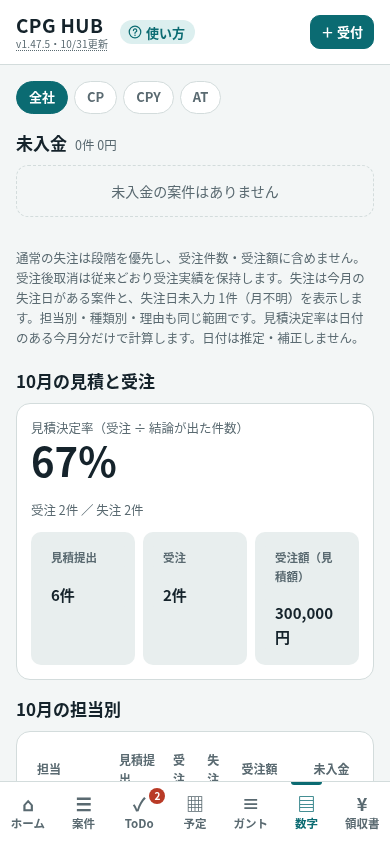
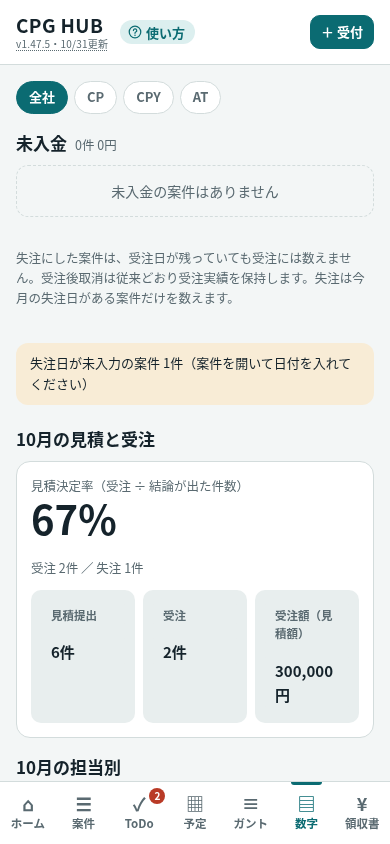
fix: separate undated losses and add confirmed case corrections with history

diff --git a/index.html b/index.html
@@ -970,6 +970,46 @@ function emergencyTimeFields(value){
     (value&&!valid?'<p class="note" role="status">保存済みの時刻を選択欄に表示できません。記録は変更していません。予定時刻を確認して時・分を選んでください。</p>':'');
 }
 function caseDateWarning(c){return c.orderDate&&(c.lossDate||c.stage==='lost')?'<div class="banner case-date-warning" role="status"><b>受注日・失注日の確認が必要です。</b>受注日と失注日が両方あるか、失注の段階に受注日が残っています。元の記録を確認してください。保存は止めず、日付を自動変更しません。</div>':'';}
+
+/* Explicit local corrections; history travels in the existing JSON backup, not the shared mirror. */
+const caseDateFields=c=>Object.fromEntries(['orderDate','lossDate','lossReason','stage','cancelledAt','cancelReason'].map(k=>[k,c[k]??'']));
+function caseDateEditable(c){return !!(c&&!c.ro&&['new','site','quoted','hold','won','lost'].includes(c.stage)&&DB.cases.filter(x=>x.id===c.id).length===1&&DB.cases.find(x=>x.id===c.id)===c);}
+function caseDateHistory(c){return Array.isArray(c.dateCorrections)&&c.dateCorrections.length?'<details class="panel"><summary>受注・失注の訂正履歴（この端末）</summary>'+c.dateCorrections.map(r=>'<div class="manual-history"><b>'+h(japanStamp(r.at))+'</b><p>'+h(r.kind==='cancel-to-lost'?'受注後取消から失注へ訂正':'日付・理由を訂正')+'</p><p>変更前：'+h(caseDateText(r.before||{}))+'</p><p>変更後：'+h(caseDateText(r.after||{}))+'</p></div>').join('')+'</details>':'';}
+function caseDateText(v){return '受注日 '+(v.orderDate||'なし')+' ／ 失注日 '+(v.lossDate||'なし')+' ／ 理由 '+(v.lossReason||'なし')+' ／ 段階 '+(STAGES[v.stage]||v.stage||'なし')+' ／ 取消日時 '+(v.cancelledAt?japanStamp(v.cancelledAt):'なし')+' ／ 取消理由 '+(v.cancelReason||'なし');}
+let caseDateSession=null;
+function caseDateClose(){document.getElementById('caseDateEditor')?.close();caseDateSession=null;}
+function caseDateOpen(id,convert){
+ const c=DB.cases.find(x=>x.id===id);
+ if(caseSaveGuard()||!caseDateEditable(c)||manualTodoCancelBusy())return toast('この案件は訂正できないか、ほかの処理中です');
+ if(convert&&!(c.stage==='lost'&&c.cancelledAt))return;
+ if(c.dateCorrections!==undefined&&!Array.isArray(c.dateCorrections))return toast('訂正履歴を読み取れないため変更できません');
+ let dlg=document.getElementById('caseDateEditor');
+ if(!dlg){dlg=document.createElement('dialog');dlg.id='caseDateEditor';dlg.style.cssText='width:min(94vw,680px);max-height:90dvh;overflow:auto;border:0;border-radius:18px;padding:18px';document.body.append(dlg);dlg.addEventListener('cancel',()=>{caseDateSession=null});}
+ caseDateSession={id,convert:!!convert,raw:JSON.stringify(c)};
+ dlg.innerHTML='<h2 style="font-size:20px">'+(convert?'失注（受注していなかった）に直す':'受注日・失注日・理由を直す')+'</h2><p>'+h(c.id)+' ／ '+h(c.property)+' '+h(c.room)+'</p>'+
+ (convert?'<p>誤って受注・取消にした場合だけ使います。受注日と取消情報を現在の欄から外し、変更前の値を訂正履歴に残します。正しい受注後取消には使わないでください。</p>':'<p>日付と理由だけを直します。段階・金額・取消の状態は変わりません。</p>')+
+ '<div class="form">'+(convert?'':'<label class="f">受注日（空欄で消す）<input type="date" id="cd_order" value="'+h(c.orderDate)+'"></label>')+
+ '<label class="f">失注日'+(convert?'（必須）':'')+'<input type="date" id="cd_loss" value="'+h(c.lossDate)+'"></label><label class="f">失注の理由'+(convert?'（必須）':'')+'<select id="cd_reason">'+['',...LOSS,...(c.lossReason&&!LOSS.includes(c.lossReason)?[c.lossReason]:[])].map(v=>'<option value="'+h(v)+'"'+(v===(c.lossReason||'')?' selected':'')+'>'+h(v||'選んでください')+'</option>').join('')+'</select></label></div><p class="note">確認して保存したときだけ変更します。訂正履歴はこの端末とJSONバックアップに残ります。共有シートには現在の値だけが届きます。</p><p id="cd_status" role="status"></p><div class="row"><button type="button" class="btn pri" data-act="cddatesave">内容を確認して保存</button><button type="button" class="btn" data-act="cddateclose">やめる</button></div>';
+ dlg.showModal();
+}
+function caseDateSave(){
+ const session=caseDateSession,c=session&&DB.cases.find(x=>x.id===session.id),status=document.getElementById('cd_status');
+ if(!status)return;
+ if(caseSaveGuard()||!caseDateEditable(c)||manualTodoCancelBusy()){status.textContent='この案件は訂正できないか、ほかの処理中です';return;}
+ if(JSON.stringify(c)!==session.raw){status.textContent='記録が変わりました。閉じて最新の内容を開き直してください';return;}
+ if(session.convert&&!(c.stage==='lost'&&c.cancelledAt))return;
+ const orderDate=session.convert?'':val('cd_order'),lossDate=val('cd_loss'),lossReason=val('cd_reason');
+ const valid=d=>!d||(/^\d{4}-\d{2}-\d{2}$/.test(d)&&!isNaN(Date.parse(d+'T00:00:00Z'))&&new Date(d+'T00:00:00Z').toISOString().slice(0,10)===d);
+ if(!valid(orderDate)||!valid(lossDate)||(session.convert&&(!lossDate||!lossReason))){status.textContent='正しい日付を入力してください。取消から失注への訂正には失注日と理由が必要です';return;}
+ const before=caseDateFields(c),after={...before,orderDate,lossDate,lossReason,...(session.convert?{stage:'lost',cancelledAt:'',cancelReason:''}:{})};
+ if(JSON.stringify(before)===JSON.stringify(after)){status.textContent='変更はありません';return;}
+ if(!confirm(c.id+' ／ '+c.property+' '+c.room+'\n'+(session.convert?'受注していなかった失注に訂正しますか？':'日付・理由を訂正しますか？')+'\n変更前：'+caseDateText(before)+'\n変更後：'+caseDateText(after)+'\n変更前の値は履歴に残ります。'))return;
+ if(caseDateSession!==session||!caseDateEditable(c)||manualTodoCancelBusy()||JSON.stringify(c)!==session.raw){status.textContent='状態が変わったため保存しません。開き直してください';return;}
+ const history=[...(c.dateCorrections||[]),{id:crypto.randomUUID(),at:new Date().toISOString(),kind:session.convert?'cancel-to-lost':'dates',before,after}];
+ if(!saveCaseChange(c,{...after,dateCorrections:history})){status.textContent=CASE_SAVE_NOTICE;return;}
+ caseDateClose();render();toast('訂正と変更前の履歴を保存し、読み戻して確認しました');
+}
+
 function vDetail(){
   const c=findCase(ui.caseId);
   if(!c)return '<div class="empty">案件が見つかりません</div>'+roNote();
@@ -1017,6 +1057,7 @@ function vDetail(){
   (caseIdentityEditable(c)?'<div class="row"><button class="btn" type="button" data-caseidentity="'+h(c.id)+'">物件名・号室を直す</button></div>':'')+
   stepBar(c)+'</section>'+
   caseDateWarning(c)+act+
+  (caseDateEditable(c)?'<div class="row"><button class="btn" type="button" data-cddate="'+h(c.id)+'">受注日・失注日・理由を直す</button>'+(c.stage==='lost'&&c.cancelledAt?'<button class="btn" type="button" data-cdconvert="'+h(c.id)+'">失注（受注していなかった）に直す</button>':'')+'</div>':'')+caseDateHistory(c)+
   '<div class="panel"><h3>受付内容</h3><dl class="kv">'+
     '<dt>住所</dt><dd>'+(c.addr?h(c.addr)+' <a class="btn sm" style="display:inline-flex;align-items:center;text-decoration:none;margin-left:4px" target="_blank" rel="noopener noreferrer" href="https://www.google.com/maps/search/?api=1&amp;query='+encodeURIComponent(c.addr)+'">地図を開く</a>':'—')+'</dd>'+
     '<dt>会社</dt><dd>'+(ui.coEdit?coSeg("data-cset",c.company)+'<div class="row" style="margin-top:6px"><button class="btn" type="button" data-act="coeditno">やめる</button></div>':coChip(c.company)+' <button class="btn sm" type="button" data-act="coedit">'+(c.company?'直す':'選ぶ')+'</button>')+'</dd>'+
@@ -1605,9 +1646,9 @@ function vStats(){
   const all=statsCases(), sco=statsCo(), gmCo=statsGmCo();
   const sent=all.filter(c=>inM(c.estSentDate));
   const won=all.filter(c=>(c.stage!=="lost"||c.cancelledAt)&&inM(c.orderDate));
-  const lost=all.filter(c=>c.stage==="lost"&&!c.cancelledAt&&(!c.lossDate||inM(c.lossDate)));
-  const undatedLost=lost.filter(c=>!c.lossDate), datedLost=lost.filter(c=>inM(c.lossDate));
-  const dec=won.length+datedLost.length, rate=dec?Math.round(won.length/dec*100):null;
+  const lost=all.filter(c=>c.stage==="lost"&&!c.cancelledAt&&inM(c.lossDate));
+  const undatedLost=all.filter(c=>c.stage==="lost"&&!c.cancelledAt&&!c.lossDate);
+  const dec=won.length+lost.length, rate=dec?Math.round(won.length/dec*100):null;
   const wonAmt=won.reduce((s,c)=>s+(Number(estOf(c))||0),0);
   const reasons=LOSS.map(r=>[r,lost.filter(c=>c.lossReason===r).length]).concat(lost.some(c=>!LOSS.includes(c.lossReason))?[["理由が届いていない（社員の記録）",lost.filter(c=>!LOSS.includes(c.lossReason)).length]]:[]);
   const maxR=Math.max(1,...reasons.map(r=>r[1]));
@@ -1630,7 +1671,7 @@ function vStats(){
       :'<div class="empty">未入金の案件はありません</div>')+'</section>';
   return (hasExamples()?'<div class="banner"><b>集計について：</b>（架空）の例と、入力した案件をあわせた数字です。</div>':'')+
   '<section class="sec">'+statsNote()+coSegStats+'</section>'+unpaidSec+
-  '<section class="sec"><p class="note stats-loss-note">通常の失注は段階を優先し、受注件数・受注額に含めません。受注後取消は従来どおり受注実績を保持します。失注は今月の失注日がある案件と、失注日未入力 '+undatedLost.length+'件（月不明）を表示します。担当別・種類別・理由も同じ範囲です。見積決定率は日付のある今月分だけで計算します。日付は推定・補正しません。</p><div class="sec-h"><h2>'+(now.getMonth()+1)+'月の見積と受注</h2></div>'+
+  '<section class="sec"><p class="note stats-loss-note">失注にした案件は、受注日が残っていても受注には数えません。受注後取消は従来どおり受注実績を保持します。失注は今月の失注日がある案件だけを数えます。</p><p class="banner stats-undated">失注日が未入力の案件 '+undatedLost.length+'件（案件を開いて日付を入れてください）</p><div class="sec-h"><h2>'+(now.getMonth()+1)+'月の見積と受注</h2></div>'+
   '<div class="panel"><div class="row" style="align-items:flex-end;gap:18px"><div><div class="note">見積決定率（受注 ÷ 結論が出た件数）</div><div class="big">'+(rate==null?"—":rate+"%")+'</div></div>'+
   '<div class="note num">受注 '+won.length+'件 ／ 失注 '+lost.length+'件</div></div>'+
   '<div class="sum"><div><div class="k">見積提出</div><div class="v">'+sent.length+'件</div></div><div><div class="k">受注</div><div class="v">'+won.length+'件</div></div><div><div class="k">受注額（見積額）</div><div class="v">'+yen(wonAmt)+'</div></div></div></div></section>'+
@@ -2687,6 +2728,10 @@ document.addEventListener("click",e=>{
   if(ui.rSaveUncertain&&el.closest("#rForm")&&!el.matches('button[type="submit"]'))return;
   if(el.dataset.receiptSuggestion){const id=el.dataset.receiptSuggestion==="payee"?"r_payee":"r_item",input=document.getElementById(id);if(input){input.value=el.dataset.value;receiptRefreshSuggestions();input.focus({preventScroll:true});}return;}
   const c=ui.caseId?editCase(ui.caseId):null;
+  if(el.dataset.cddate){caseDateOpen(el.dataset.cddate,false);return}
+  if(el.dataset.cdconvert){caseDateOpen(el.dataset.cdconvert,true);return}
+  if(el.dataset.act==='cddatesave'){caseDateSave();return}
+  if(el.dataset.act==='cddateclose'){caseDateClose();return}
   if(el.dataset.caseidentity){caseIdentityOpen(el.dataset.caseidentity);return}
   if(el.dataset.caseprevious!=null){try{caseIdentityFill(caseIdentityApi().previousFields(caseIdentityHistoryRows[Number(el.dataset.caseprevious)],caseIdentitySession.id));document.getElementById("caseIdentityStatus").textContent="以前の物件名・号室を編集欄に戻しました。保存すると新しい履歴を残します。進捗は変わりません。";}catch(error){toast(error.message,5000)}return}
   if(el.dataset.act==="caseidentityclose"){caseIdentityClose();return}

diff --git a/manual.html b/manual.html
@@ -342,12 +342,12 @@ th{color:var(--muted);font-size:13px}
   <p>会社の動き、社員の追加、タスクリクエストを出す、会社・役割（全社・GM）、数字の会社全体の集計などは、<a href="./manual-admin.html">管理者向けマニュアル</a>にまとめています。</p>
 </section>
 
-<section class="panel"><h2>v1.47.5（2026年10月31日）数字の集計</h2><p>取消日時のない通常失注は段階を優先し、受注日が残っていても受注件数・受注額から除外します。失注の集計（担当別・種類別・理由）は今月の失注日がある案件と失注日未入力の案件を含み、未入力分は月不明の件数を明示します。過去月・未来月の失注日は今月に含めず、見積決定率は日付のある今月分だけで計算します。日付は推定・補正しません。受注後取消（取消日時あり）は通常失注と区別し、従来どおり元の受注実績を保持し、失注集計には加算しません。種類別の見積提出は担当別と同じ今月の提出日で数えます。案件画面では受注日と失注日の併記、または失注段階に受注日が残る場合に注意を表示しますが、保存は止めません。</p></section>
+<section class="panel"><h2>v1.47.5（2026年10月31日）数字の集計</h2><p>失注にした案件は、受注日が残っていても受注には数えません。ただし、実際に受注したあとの取消は、これまでどおり元の受注実績に残します。今月の失注件数・担当別・種類別・理由・決定率には、今月の失注日がある案件だけを数えます。失注日が空の案件は集計に入れず、「失注日が未入力の案件」として別に件数を出します。日付を自動で埋めることはありません。種類別の「見積提出」は、担当別と同じく今月提出した件数です。日付の食い違いには案件画面で注意を出しますが、保存は止めません。</p><h3>日付や、誤った受注・取消の記録を直す</h3><p>自分の端末で案件を開き、「受注日・失注日・理由を直す」を押します。受注日を消すときは空欄にし、失注日・理由を確認して「内容を確認して保存」を押してください。確認画面に出る案件と変更前・変更後を読み、よければ確定します。「やめる」や確認のキャンセルでは変更しません。誤って受注してから取り消した場合は「失注（受注していなかった）に直す」を使い、失注日と理由を入れます。確定すると受注日と現在の取消情報を外し、通常の失注として数えます。本当に受注した後の取消には使わないでください。どちらの操作も元の受注日・失注日・理由・取消情報を「受注・失注の訂正履歴」に残します。履歴はこの端末とJSONバックアップに残り、共有シートには現在の値だけが届きます。共有社員の記録や引渡・施工以降の案件は、この操作で直せません。保存結果を確認できないときは再保存せず、再読み込みして最新の記録を確認してください。</p></section>
 <section id="history">
   <h2>改訂履歴</h2>
   <div class="card"><table class="hist">
     <tr><th>版</th><th>できるようになったこと</th></tr>
-    <tr><td>v1.47.5<br><span class="meta">10/31</span></td><td>失注段階を優先した集計、日付の注意、種類別の見積提出列を追加。保存データは変更しません。</td></tr>
+    <tr><td>v1.47.5<br><span class="meta">10/31</span></td><td>失注段階を優先した集計、日付の注意、種類別の見積提出列を追加。自動補正はせず、本人の確認付き訂正だけを保存します。</td></tr>
     <tr><td>v1.47.4<br><span class="meta">10/31</span></td><td>タスクリクエストの当日期限（「今日」）を赤字・太字で表示。未来日・通常ToDo・保存・同期は変更しません。</td></tr>
     <tr><td>v1.47.3<br><span class="meta">10/31</span></td><td>自動ToDoの期限設定（目安）の見出し・説明を明確化。日数・計算・保存・同期は不変。旧PR #49のv1.47候補を最新mainへ通常mergeして更新しました。</td></tr>
     <tr><td>v1.47.2<br><span class="meta">10/31</span></td><td>リクエストを通常ToDoの上に小さく表示。押すと全文を開閉。JST今日＋5日までに限定し、先の期限・期限なしは指示一覧へ。保存・同期・完了報告は変更しません。</td></tr>

diff --git a/manual-admin.html b/manual-admin.html
@@ -163,7 +163,7 @@ th{color:var(--muted);font-size:13px}
   <p class="note"><b>指示箱がまだありません</b>と出たときは、社長の端末で、その人の会社・役割をもう一度保存してもらってください（指示箱はそのときに作られます）。</p>
 </section>
 
-<section class="panel"><h2>v1.47.5（2026年10月31日）数字の集計</h2><p>取消日時のない通常失注は段階を優先し、受注日が残っていても受注件数・受注額から除外します。失注の集計（担当別・種類別・理由）は今月の失注日がある案件と失注日未入力の案件を含み、未入力分は月不明の件数を明示します。過去月・未来月の失注日は今月に含めず、見積決定率は日付のある今月分だけで計算します。日付は推定・補正しません。受注後取消（取消日時あり）は通常失注と区別し、従来どおり元の受注実績を保持し、失注集計には加算しません。種類別の見積提出は担当別と同じ今月の提出日で数えます。案件画面では受注日と失注日の併記、または失注段階に受注日が残る場合に注意を表示しますが、保存は止めません。</p></section>
+<section class="panel"><h2>v1.47.5（2026年10月31日）数字の集計</h2><p>失注にした案件は、受注日が残っていても受注には数えません。ただし、実際に受注したあとの取消は、これまでどおり元の受注実績に残します。今月の失注件数・担当別・種類別・理由・決定率には、今月の失注日がある案件だけを数えます。失注日が空の案件は集計に入れず、「失注日が未入力の案件」として別に件数を出します。日付を自動で埋めることはありません。種類別の「見積提出」は、担当別と同じく今月提出した件数です。日付の食い違いには案件画面で注意を出しますが、保存は止めません。</p><h3>日付や、誤った受注・取消の記録を直す</h3><p>自分の端末で案件を開き、「受注日・失注日・理由を直す」を押します。受注日を消すときは空欄にし、失注日・理由を確認して「内容を確認して保存」を押してください。確認画面に出る案件と変更前・変更後を読み、よければ確定します。「やめる」や確認のキャンセルでは変更しません。誤って受注してから取り消した場合は「失注（受注していなかった）に直す」を使い、失注日と理由を入れます。確定すると受注日と現在の取消情報を外し、通常の失注として数えます。本当に受注した後の取消には使わないでください。どちらの操作も元の受注日・失注日・理由・取消情報を「受注・失注の訂正履歴」に残します。履歴はこの端末とJSONバックアップに残り、共有シートには現在の値だけが届きます。共有社員の記録や引渡・施工以降の案件は、この操作で直せません。保存結果を確認できないときは再保存せず、再読み込みして最新の記録を確認してください。</p></section>
 <p class="meta"><a href="./manual.html">‹ 社員向けの使い方マニュアル</a>　<a href="./">‹ CPG HUB に戻る</a></p>
 </main>
 </body>

diff --git a/docs/stats-lost-priority.md b/docs/stats-lost-priority.md
@@ -1,25 +1,21 @@
-# v1.47.5 数字の集計検証
+# v1.47.5 数字と訂正の検証
 
 基準 main: `1df58840bb19d3437a2c1141f83a275ea97c7509`（v1.47.4）。
 
-- 通常失注は `stage === lost && !cancelledAt`。受注日が残っていても受注件数・額から除外。
-- 受注後取消（cancelledAtあり）は従来の元受注実績を保持し、通常失注へ混ぜない。取消表示・履歴・ToDo除外は変更なし。
-- 通常失注の失注日が今月なら月内、空欄なら月不明として件数を明示し、担当／種類／理由に同じ集合を用いる。過去月・未来月は除外。決定率は日付のある今月分のみ。日付を推定しない。
-- 種類別・担当別の見積提出は同じ今月のestSentDateで集計。
-- 受注日と失注日の併記、失注段階に受注日が残る場合はローカル／共有閲覧の案件画面に注意。保存を止めず、元データを書き換えない。
+失注にした案件は、受注日が残っていても受注には数えません。ただし、実際に受注したあとの取消は、これまでどおり元の受注実績に残します。今月の失注件数・担当別・種類別・理由・決定率には、今月の失注日がある案件だけを数えます。失注日が空の案件は集計に入れず、「失注日が未入力の案件」として別に件数を出します。日付を自動で埋めることはありません。種類別の「見積提出」は、担当別と同じく今月提出した件数です。日付の食い違いには案件画面で注意を出しますが、保存は止めません。
+
+自分の端末で案件を開き、「受注日・失注日・理由を直す」を押します。受注日を消すときは空欄にし、失注日・理由を確認して「内容を確認して保存」を押してください。確認画面に出る案件と変更前・変更後を読み、よければ確定します。「やめる」や確認のキャンセルでは変更しません。誤って受注してから取り消した場合は「失注（受注していなかった）に直す」を使い、失注日と理由を入れます。確定すると受注日と現在の取消情報を外し、通常の失注として数えます。本当に受注した後の取消には使わないでください。どちらの操作も元の受注日・失注日・理由・取消情報を「受注・失注の訂正履歴」に残します。履歴はこの端末とJSONバックアップに残り、共有シートには現在の値だけが届きます。共有社員の記録や引渡・施工以降の案件は、この操作で直せません。保存結果を確認できないときは再保存せず、再読み込みして最新の記録を確認してください。
+
+## 差分境界
+
+既存saveCaseChangeによる書込み・readback・不確実時の再保存停止をそのまま利用。保存形式全体・schemaVersion・共有32列・同期・権限・カレンダーは変更しない。明示訂正時だけ案件のdateCorrections配列に変更前後と操作ID・UTC ISO時刻を追記し、表示はJST。既存データを移行・自動補正しない。履歴はローカルと既存JSONバックアップに含まれるが共有ミラーへは送らない。正しい取消を操作しなければ従来の受注実績を保持する。取消から失注への明示訂正だけが取消情報を履歴へ移し、通常失注に変える。
 
 ## 合成検証
 
-`node tests/stats-lost-browser.cjs`：通常失注の段階優先・金額除外、月不明／過去月／未来月、理由、見積提出の合計、注意表示、保存・再読込で元値保持、取消の従来集計保持、390×844の描画と横はみ出し確認。
+`node tests/stats-lost-browser.cjs`：14シナリオ。月内／日付空／過去月／未来月、受注額除外、担当別と種類別の見積提出合計、注意、確認キャンセル・戻る・再読込、日付訂正、取消情報を変えない日付編集、取消から失注の訂正・必須値・履歴・繰返し、共有閲覧／引渡以降／重複ID／busy拒否、保存前失敗・書込み後readback例外・別値・別タブ変更の拒否と再読込を検証。保存不明時の成功通知なし・再試行停止も確認。
 
-既存 `tests/stats-company-browser.cjs`：社長／全社／GM／社員、会社絞込み、共有重複除外、320/400px。既存の取消／保存失敗／バックアップ／同期・リクエスト等の回帰は全 `tests/*.cjs` で検証する。
+既存の取消39シナリオは期待を変更せず検証する。全 `tests/*.cjs`（28本）を個別実行する。実Google・Android実機は対象外。390×844のChromiumスクリーンショットは合成例だけで、実機確認とは異なる。
 
-画像は `docs/preview/stats-{lost,staff,types}-390.png`。合成例のみ。Chromiumのブラウザー検証であり、Android実機・実Google・実社員の状態確認ではない。
+画像：stats-lost-390.png、stats-staff-390.png、stats-types-390.png、stats-date-editor-390.png、stats-cancel-correction-390.png（docs/preview）。
 
-## 操作の限界
-
-この変更には受注日を消す操作や失注日を指定する操作を追加していない。誤受注と実際の受注後取消は業務上の確認が必要で、案件を自動分類・補正しない。既存の取消を通常失注へ変換しない。
-
-## 実施結果（2026-10-31）
-
-全28スクリプト（既存27＋新規1）を個別に `node tests/<file>.cjs` で実行し、すべてexit 0。新規は5シナリオ。取消・保存失敗等の既存39シナリオは元の期待を維持して成功。文書配置の最終調整後にmanual-pagesも再実行。`git diff --check` 成功。詳細・集計レンダラーと版参照以外のindexソースの同一性を検査し、同期・保存イベント・リクエストを変更していないことを確認。
+最終実施結果（2026-10-31）：全28スクリプトを個別実行し全てexit 0。新規対象14シナリオ、既存取消39シナリオも成功。`git diff --check` 成功。5枚の画像を目視確認。実Google・実案件への操作なし。

diff --git a/docs/引継ぎ.md b/docs/引継ぎ.md
@@ -14,7 +14,7 @@
 ## v1.47.5 数字の集計
 
 - トシの限定依頼をコーディー／ナミが担当。基準mainは `1df58840bb19d3437a2c1141f83a275ea97c7509`。
-- 取消日時のない通常失注は段階を優先し、受注日が残っていても受注件数・受注額から除外します。失注の集計（担当別・種類別・理由）は今月の失注日がある案件と失注日未入力の案件を含み、未入力分は月不明の件数を明示します。過去月・未来月の失注日は今月に含めず、見積決定率は日付のある今月分だけで計算します。日付は推定・補正しません。受注後取消（取消日時あり）は通常失注と区別し、従来どおり元の受注実績を保持し、失注集計には加算しません。種類別の見積提出は担当別と同じ今月の提出日で数えます。案件画面では受注日と失注日の併記、または失注段階に受注日が残る場合に注意を表示しますが、保存は止めません。
+- 失注にした案件は、受注日が残っていても受注には数えません。ただし、実際に受注したあとの取消は、これまでどおり元の受注実績に残します。今月の失注件数・担当別・種類別・理由・決定率には、今月の失注日がある案件だけを数えます。失注日が空の案件は集計に入れず、「失注日が未入力の案件」として別に件数を出します。日付を自動で埋めることはありません。種類別の「見積提出」は、担当別と同じく今月提出した件数です。日付の食い違いには案件画面で注意を出しますが、保存は止めません。
 - 保存・同期・権限・当日期限の強調は不変。実Google・Android実機は検証対象外。公開には本人の承認が必要という運用ルールは維持。
 
 ## v1.47.4 当日期限の強調
@@ -85,3 +85,5 @@ PlaywrightとChromiumが必要。`CHROMIUM_PATH`未指定時は `/usr/bin/chromi
 - Desktop Chromium＋Android UA／タッチ疑似端末による検証であり、実Android検証と呼ばない。合成データ以外をテスト・スクリーンショット・PRへ載せない。
 
 再現時は架空の緊急対応・受付案件を使い、時・分が未選択であること、両方選ぶまで保存できないこと、保存後の再読込で日付・HH:mmが戻ることを確認する。時刻入力に `input[type=time]` がないことも確認する。
+
+自分の端末で案件を開き、「受注日・失注日・理由を直す」を押します。受注日を消すときは空欄にし、失注日・理由を確認して「内容を確認して保存」を押してください。確認画面に出る案件と変更前・変更後を読み、よければ確定します。「やめる」や確認のキャンセルでは変更しません。誤って受注してから取り消した場合は「失注（受注していなかった）に直す」を使い、失注日と理由を入れます。確定すると受注日と現在の取消情報を外し、通常の失注として数えます。本当に受注した後の取消には使わないでください。どちらの操作も元の受注日・失注日・理由・取消情報を「受注・失注の訂正履歴」に残します。履歴はこの端末とJSONバックアップに残り、共有シートには現在の値だけが届きます。共有社員の記録や引渡・施工以降の案件は、この操作で直せません。保存結果を確認できないときは再保存せず、再読み込みして最新の記録を確認してください。
